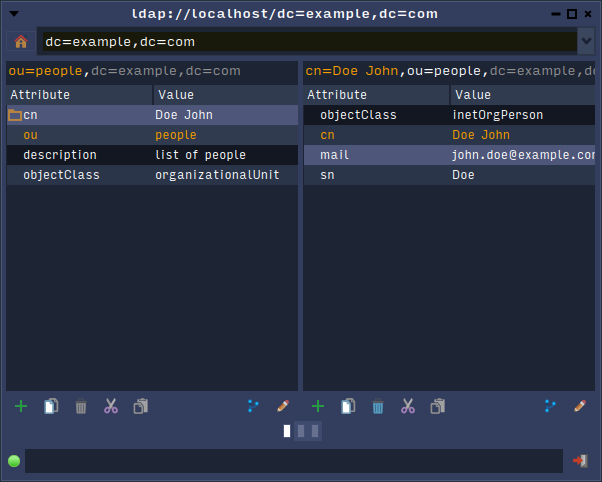
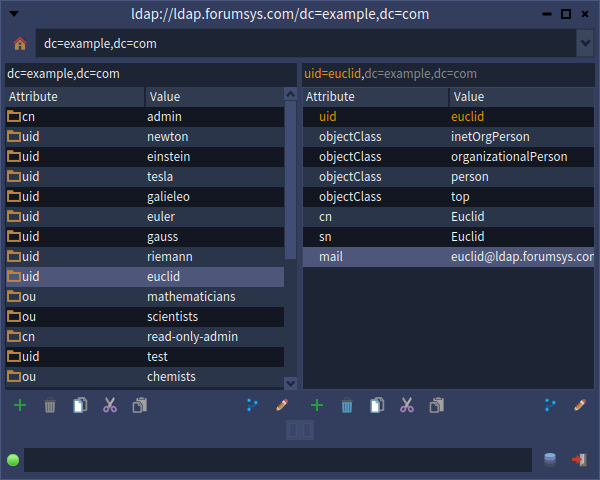
update documentation

diff --git a/md/Spec.md b/md/Spec.md
@@ -15,8 +15,58 @@ On top, you can open the server settings dialog and select one of the roots publ
 
 ## Connection
 
-The LDAP server can be selected by clicking the `home` icon on the browser window.
+The current LDAP connection can be edited by clicking the `home` icon on the browser window.
 
 ![LDAPConnectionPresenter](./images/LDAPConnectionPresenter.png)
 
 When `OK` is clicked in this dialog, a new LDAP connection is opened and the available root distinguished names (also called naming contexts) are requested. The first one is chosen and the entries are then displayed.
+
+## Server Bookmarks
+
+A list of server informations can be stored in a file.
+
+The server bookmarks window lists those servers. The entries can be reorganized  and modified there.
+
+Additionally, you can query the naming contexts of the server displayed on the right-side.
+
+![LDAPBookmarkEditor](./images/LDAPBookmarks.png)
+
+## Editor
+
+![LDAPEditorPresenter](./images/LDAPEditor.png)
+
+The editor window is very similar to the browser. The major difference is the toolbar at the bottom of each entry.
+
+The buttons actions are:
+ 
+   - (plus sign) add a new entry beneath the current entry
+   - (trash) delete the current entry, only enabled for leaf entries
+   - copy the attributes of the current entry in the editor clipboard
+   - cut will store the current entry DN in the clipboard to be moved
+   - paste will either create a new entry beneath the current entry or move the cut DN under the current entry
+
+And on the right-side:
+
+  - change the DN of the current entry, with the option to move the entry
+  - edit the attributes of the current entry
+ 
+ ### New entry dialog
+ 
+![LDAPNewEntryPresenter](./images/LDAPNewEntry.png)
+
+In the empty window, you should first select the object class of the entry by clicking the configuration button of the `objectClass` attribute line.
+
+Required attributes are shown with a green button, allowed attributes with a yellow button.
+
+To select which attribute (or attributes) to use as the DN for the entry, check the boxes in the leftmost column.
+
+Custom attributes can be added by clicking the `+` button on the empty last line. Note that the server might reject the new entry if any attribute description does not fit the selected object classes.
+
+### Edit attributes dialog
+
+![LDAPEditEntryPresenter](./images/LDAPAttributeEditor.png)
+
+The attribute editor works like the new entry dialog except you cannot edit the DN attributes.
+
+ 
+
